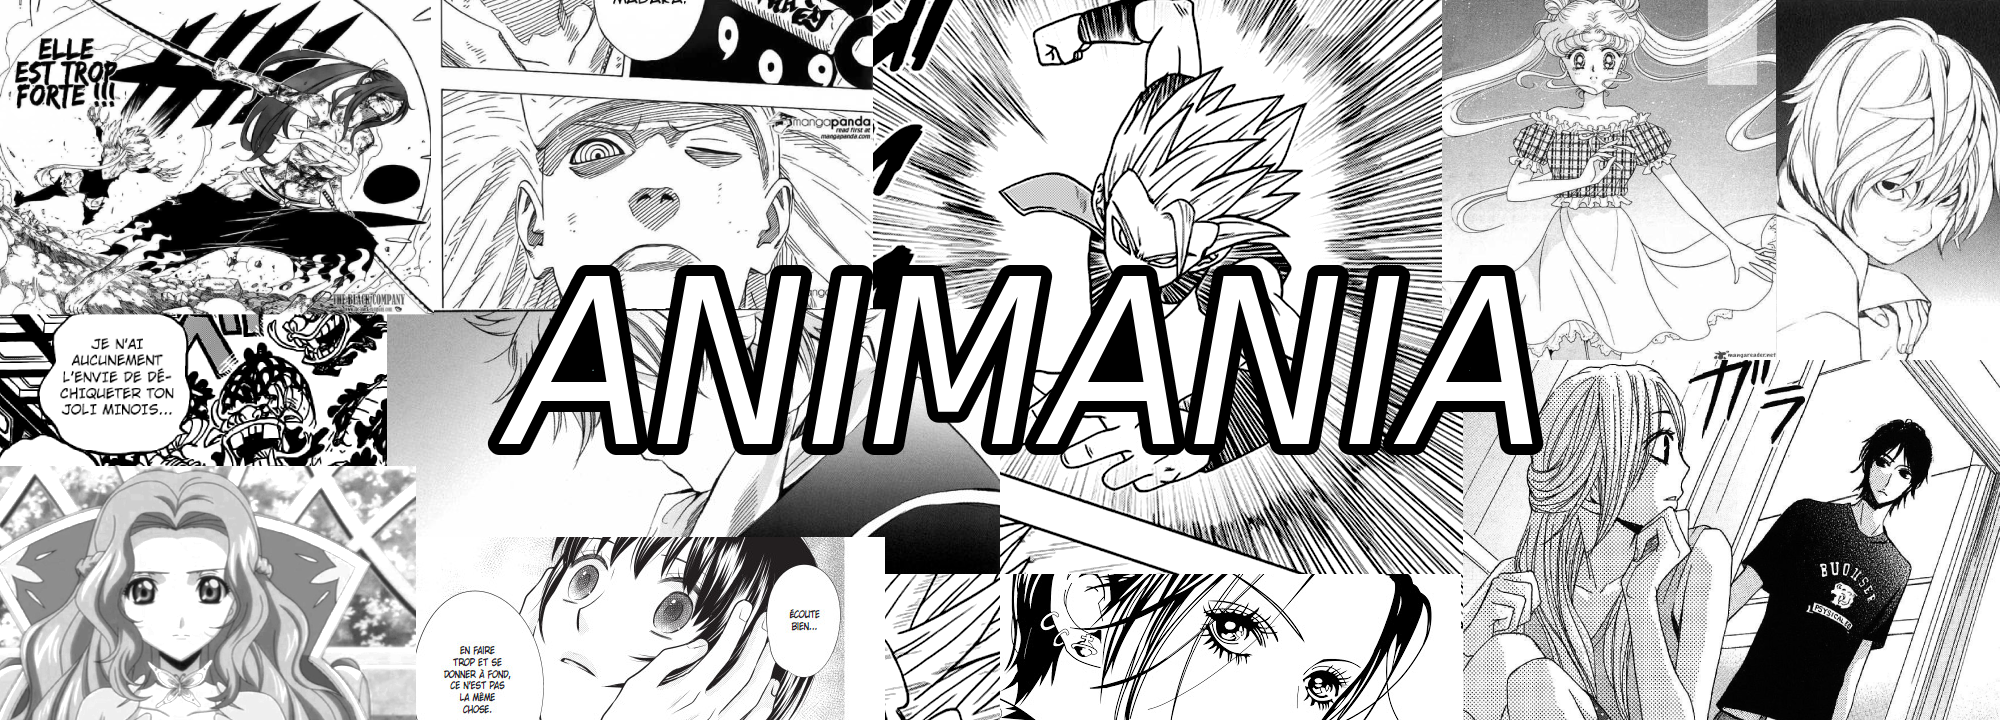
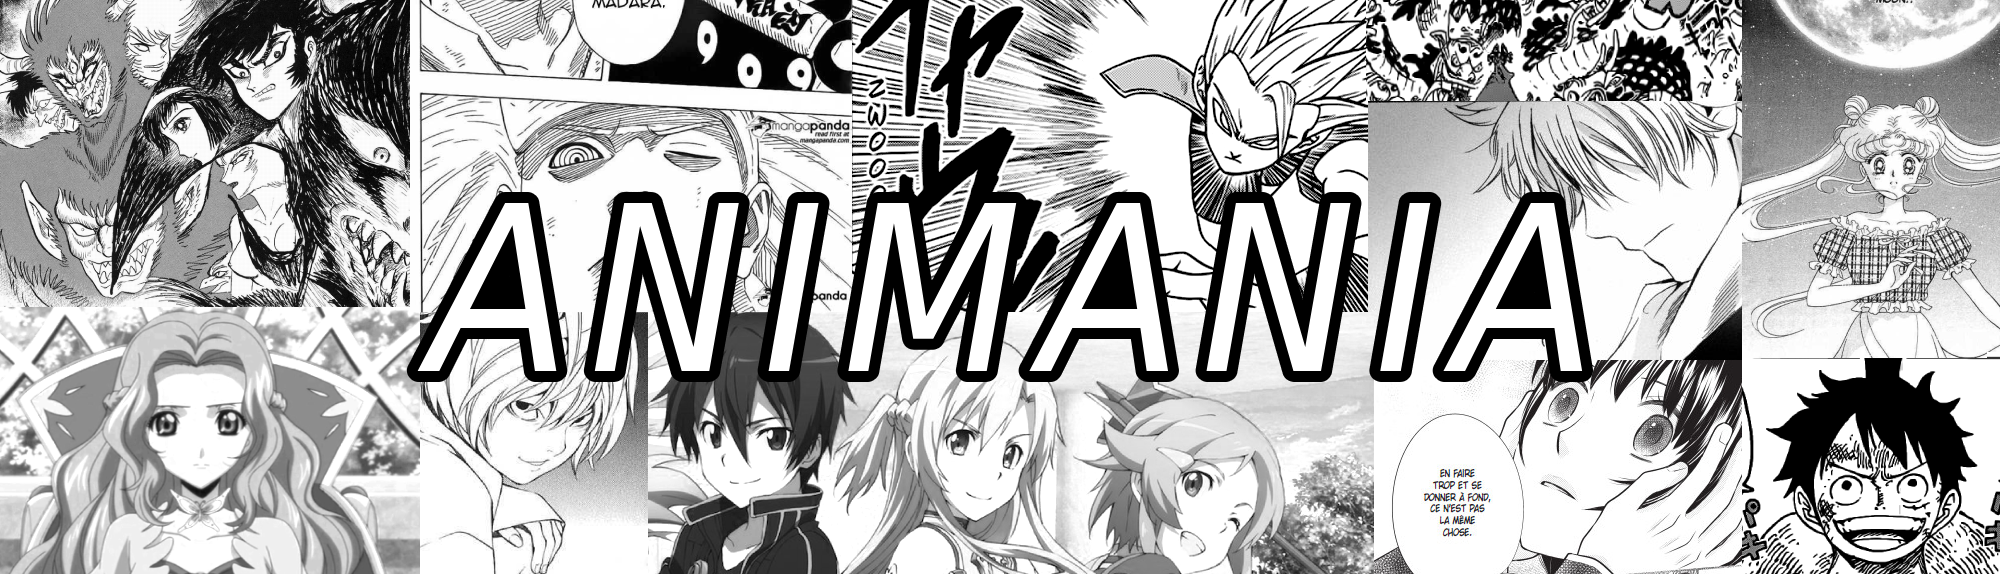
Fix: main function
+ Main function covering for different API paths (!!!)
+ Basic footer
+ Fixed the typography

diff --git a/src/components/Mangas.vue b/src/components/Mangas.vue
@@ -1,77 +1,103 @@
 <template>
-
     <div> <!-- Parent div of the template -->
-    <v-container>
-        <h2>BROWSE OUR CATALOG</h2>
-        <h2> MARK YOUR FAVORITES MANGAS</h2>
-        <h2>PREPARE AND EXPORT YOUR READING LIST</h2>
-        <p class="selection__instructions">Click to display the corresponding titles.</p>
+        <v-container>
+            <h2>BROWSE OUR CATALOG</h2>
+            <h2> MARK YOUR FAVORITES MANGAS</h2>
+            <h2>PREPARE AND EXPORT YOUR READING LIST</h2>
+            <p class="selection__instructions">Click to display the corresponding titles.</p>
 
-        <div class="selection__type selection__type--general">
-            <!-- Buttons which offset the function to display corresponding items fetched from the API -->
-            <button @click="show" class="btn btn--general">
-                Popular
-            </button>
+            <div class="selection__type selection__type--general">
+                <!-- Buttons which offset the function to display corresponding items fetched from the API -->
+                <button @click="show('https://api.jikan.moe/v3/top/anime/1/bypopularity', true)" class="btn btn--general">
+                    Popular
+                </button>
 
-            <button @click="show" class="btn btn--general">
-                Upcoming
-            </button>
+                <button @click="show('https://api.jikan.moe/v3/top/anime/1/favorite', true)" class="btn btn--general">
+                    Community's favourites
+                </button>
 
-            <button @click="show" class="btn btn--general">
-                Community's favourites
-            </button>
-        </div>
+                <button @click="show('https://api.jikan.moe/v3/top/anime/1/upcoming', true)" class="btn btn--general">
+                    Upcoming
+                </button>
+            </div>
 
-        <div class="selection__type selection__type--genre">
-            <h3>SELECTION BY GENRE</h3>
+            <div class="selection__type selection__type--genre">
+                <h3>SELECTION BY GENRE</h3>
 
-            <button @click="show" class="btn btn--genre">
-                Action
-            </button>
+                <button @click="show('https://api.jikan.moe/v3/genre/anime/1', 0)" class="btn btn--genre">
+                    Action
+                </button>
 
-            <button @click="show" class="btn btn--genre">
-                Adventure
-            </button>
+                <button @click="show('https://api.jikan.moe/v3/genre/anime/2', 0)" class="btn btn--genre">
+                    Adventure
+                </button>
 
-            <button @click="show" class="btn btn--genre">
-                Drama
-            </button>
+                <button @click="show('https://api.jikan.moe/v3/genre/anime/8', 0)" class="btn btn--genre">
+                    Drama
+                </button>
 
-            <button @click="show" class="btn btn--genre">
-                Ecchi
-            </button>
+                <button @click="show('https://api.jikan.moe/v3/genre/anime/9', 0)" class="btn btn--genre">
+                    Ecchi
+                </button>
 
-            <button @click="show" class="btn btn--genre">
-                Fantasy
-            </button>
+                <button @click="show('https://api.jikan.moe/v3/genre/anime/10', 0)" class="btn btn--genre">
+                    Fantasy
+                </button>
 
-            <button @click="show" class="btn btn--genre">
-                Game
-            </button>
-        </div>
+                <button @click="show('https://api.jikan.moe/v3/genre/anime/11', 0)" class="btn btn--genre">
+                    Game
+                </button>
 
+                <button @click="show('https://api.jikan.moe/v3/genre/anime/14', 0)" class="btn btn--genre">
+                    Horror
+                </button>
 
-        <!-- Generation of a grid of cards when pressing any button -->    
-        <v-row>
-            <v-col cols="12" xs="12" sm="6" md="4" lg="3" v-for="(anime, i) in result" :key="i">    
-                <v-card width="250px">
-                    
-                    <!-- Title breaks, fix needed --->
-                    <v-card-title>#{{ anime.rank }} {{ anime.title }}</v-card-title>
-                    <v-card-subtitle>{{ anime.score }}/10</v-card-subtitle>
+                <button @click="show('https://api.jikan.moe/v3/genre/anime/16', 0)" class="btn btn--genre">
+                    Magic
+                </button>
+
+                <button @click="show('https://api.jikan.moe/v3/genre/anime/18', 0)" class="btn btn--genre">
+                    Mecha
+                </button>
+
+                <button @click="miyazaki" class="btn btn--genre btn--miyazaki">
+                    Miyazaki
+                </button>
+
+                <button @click="show('https://api.jikan.moe/v3/genre/anime/19', 0)" class="btn btn--genre">
+                    Music
+                </button>
+
+                <button @click="show('https://api.jikan.moe/v3/genre/anime/22', 0)" class="btn btn--genre">
+                    Romance
+                </button>
+
+                <button @click="show('https://api.jikan.moe/v3/genre/anime/24', 0)" class="btn btn--genre">
+                    Sci-Fi
+                </button>
+            </div>
+
+            <!-- Generation of a grid of cards when pressing any button -->    
+            <v-row>
+                <v-col 
+                    cols="12" xs="12" sm="6" md="4" lg="3" 
+                    v-for="(anime, i) in result" :key="i"
+                >    
+                <v-card> 
                     <v-img :src="anime.image_url" alt="anime.title" height="250px"></v-img>
+                    <!-- Title breaks, fix needed --->
+                    <v-card-title>{{ anime.title }}</v-card-title>
+                    <v-card-subtitle>{{ anime.score }}/10</v-card-subtitle> 
                     
-                    <!-- Icon which allows to make an item a favorite -->
+                    <!-- 
                     <button @click="makeFavorite">
-                        {{ like }}
-                    </button>
+                            {{ like }} 
+                        </button> -->
 
-                    <br> 
-
-                </v-card>
-            </v-col>
-        </v-row>
-    </v-container>
+                    </v-card>
+                </v-col>
+            </v-row>
+        </v-container>
     </div>
 </template>
 

diff --git a/src/App.vue b/src/App.vue
@@ -1,16 +1,17 @@
 <template>
   <div id="app">
-    <img src="./assets/animania2.png" alt="Header with pictures of characters from animes and mangas" style="width: 100%">
+    <img src="./assets/animania.png" alt="Header with pictures of characters from animes and mangas" style="width: 100%">
 
       <!-- Nav menu with router-links -->
-
-      <nav class="navbar navbar-expand-lg fixed-top row navtab">
+<!-- <v-app-bar fixed> -->
+      <nav class="navbar navbar-expand-lg fixed-top row nav-tab">
         <router-link tag="li" class="col nav-tab" class-active="active" to="/">Home</router-link><br>
         <router-link tag="li" class="col nav-tab" class-active="active" to="/animes">Animes</router-link>
         <router-link tag="li" class="col nav-tab" class-active="active" to="/mangas">Mangas</router-link>
         <router-link tag="li" class="col nav-tab" class-active="active" to="/contact">Drop us a message</router-link>
         <hr>
       </nav>
+<!-- </v-app-bar> -->
 
       <!-- Components (pages) displayed here -->
       <router-view></router-view>
@@ -61,6 +62,12 @@ nav {
   text-align: center;
 }
 
+v-app-bar {
+  border: 0px solid black;
+  margin: 0;
+  padding: 0;
+}
+
 li {
   list-style-type: none;  
 }
@@ -77,6 +84,7 @@ div>h2:first-child {
 }
 
 h2 {
+  text-shadow: 0 1px 0 rgba(255, 255, 255, 0.4);
   margin-bottom: 0px;
 }
 
@@ -93,6 +101,7 @@ h3 {
   margin-bottom: 10px;  
 }
 
+/**has to be made true only for bigger screens */
 .selection__type {
   margin: 10px auto;
   padding: 2em;
@@ -118,7 +127,7 @@ h3 {
     color: black;
     padding: 10px 20px;
     border-radius: 20px; 
-    margin: 0px 10px 0px 0px;
+    margin: 1%;
 }
 
 .btn:hover {
@@ -135,9 +144,25 @@ h3 {
   color: white;
 }
 
+.btn--miyazaki {
+  background-image: url('./assets/totoro.jpg');
+  background-size: 100px 50px;
+  text-shadow: 1px 1px 2px black;
+}
+
+.btn--miyazaki:hover {
+  opacity: 0.65;
+}
+
 
 footer {
   margin-top: 5%;
 }
-   
+
+.breakWord {
+  word-break: break-word;
+  -webkit-line-clamp: unset !important;
+  white-space: normal;
+}
+
 </style>
